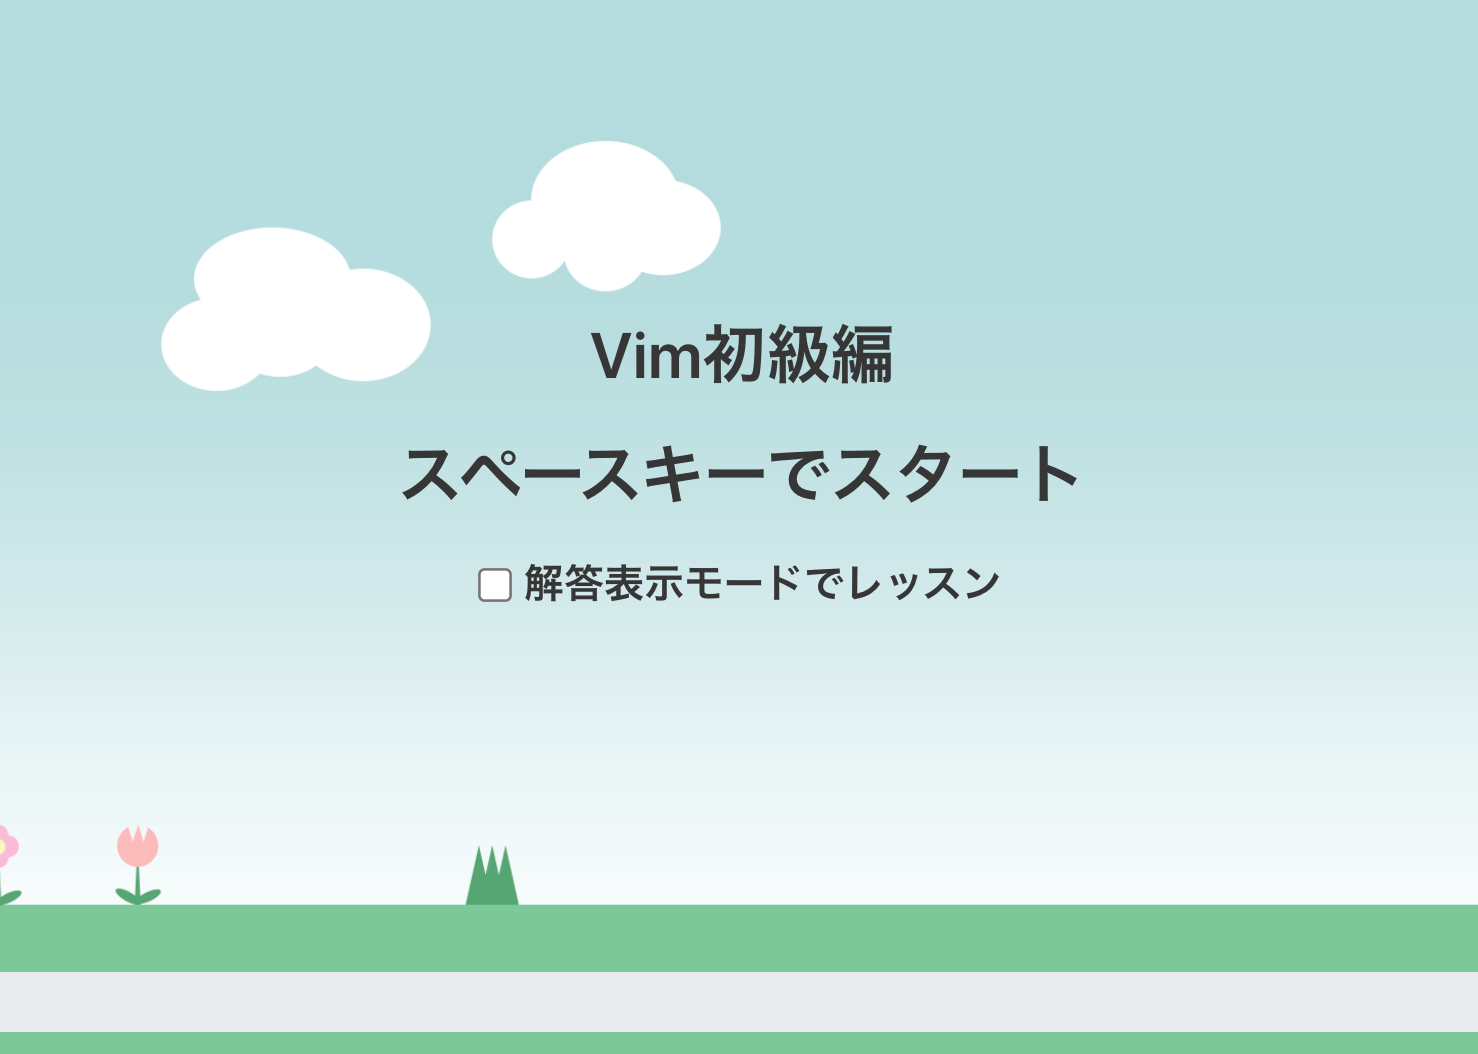
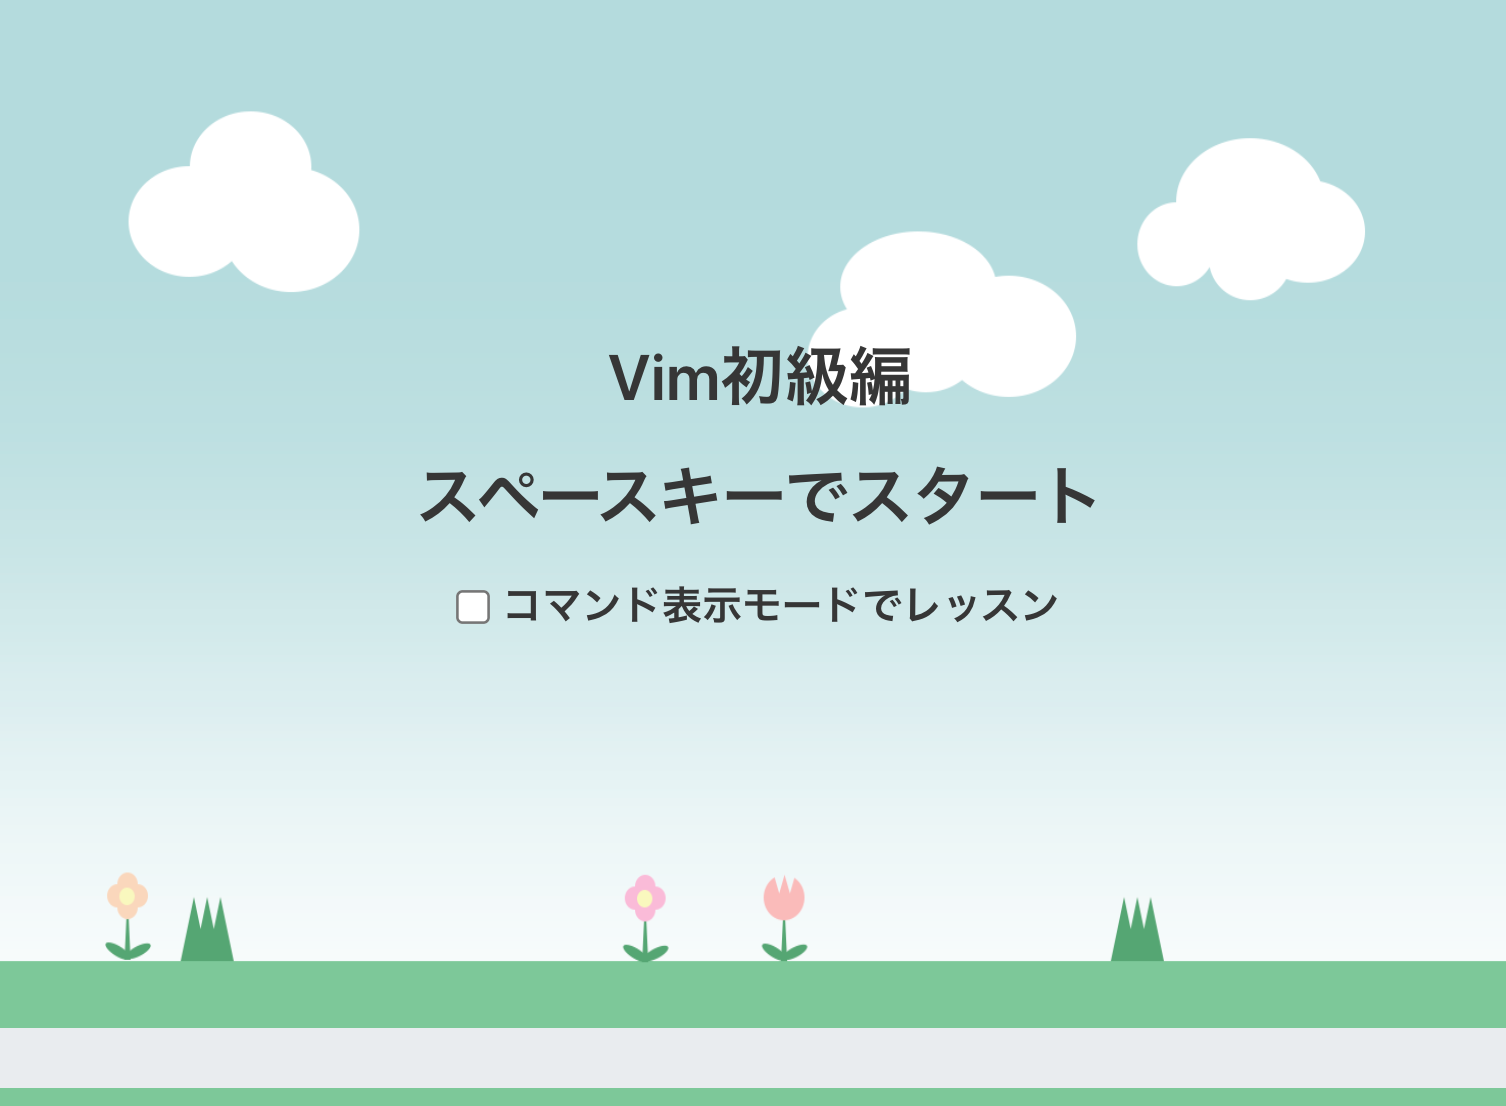
Modify: 細かい文言の調整

diff --git a/db/fixtures/01_lessons.rb b/db/fixtures/01_lessons.rb
@@ -1,8 +1,8 @@
 Lesson.seed(:id,
-  {id: 1, name: '初級編', category: 'Vim', description: 'Vim初級編は移動やインサートなど基本的なコマンドを行います。解答に自信が無い方は、先にコマンド一覧を参照してからレッスンを行ってみてください。びむ太と穏やかにレッスンを行いましょう。', url: 'vim-01'},
-  {id: 2, name: '中級編', category: 'Vim', description: 'Vim中級編はテキストオブジェクトや検索など知っておくべきなコマンドを行います。解答に自信が無い方は、先にコマンド一覧を参照してからレッスンを行ってみてください。びむ太を火山から救い出してください。', url: 'vim-02'},
-  {id: 3, name: '上級編', category: 'Vim', description: 'Vim上級編を知っていたらVimマスター間違い無し！解答に自信が無い方は、先にコマンド一覧を参照してからレッスンを行ってみてください。宇宙の無酸素でびむ太は倒れかけています。一刻も早く解答してびむ太を救い出しましょう。', url: 'vim-03'},
-  {id: 4, name: '初級編', category: 'Option', description: 'Vimmer診断初級編でVimmer力を測ろう！', url: 'vimmer-01'},
-  {id: 5, name: '中級編', category: 'Option', description: '近日リリース予定!!', url: 'vimmer-02'},
-  {id: 6, name: '上級編', category: 'Option', description: '近日リリース予定!!', url: 'vimmer-03'}
+  {id: 1, name: '初級編', category: 'Vim', description: 'Vim初級編は移動やインサートなどVimの基本的なコマンドが出題されます。コマンド一覧やコマンド表示モードを使用して、まずはVimに慣れていきましょう！初級編をマスターすれば、Vimmerへの大きな一歩です！', url: 'vim-01'},
+  {id: 2, name: '中級編', category: 'Vim', description: 'Vim中級編はテキストオブジェクトや検索などのコマンドが出題されます。初級編と同様、コマンド一覧やコマンド表示モードが使用可能です。中級編までマスターすれば、Vimでの操作が楽しくなってくるはずです！', url: 'vim-02'},
+  {id: 3, name: '上級編', category: 'Vim', description: 'Vim上級編を知っていたらVimマスター間違い無し！これまでの問題よりも大幅に難易度が上がります。上級編もコマンド一覧やコマンド表示モードを使用することができます。上級編までマスターすれば、立派なVimmerの仲間入りです！', url: 'vim-03'},
+  {id: 4, name: '初級編', category: 'Option', description: 'Vimmer診断初級編は、上下左右の基本的なコマンドを使用して、迷路を突破します。Vim初心者の方からVimmerまで幅広く遊べる内容です。Vimmer診断で、自分のVimmer力を測ってみましょう！', url: 'vimmer-01'},
+  {id: 5, name: '中級編', category: 'Option', description: '近日リリース予定！', url: 'vimmer-02'},
+  {id: 6, name: '上級編', category: 'Option', description: '近日リリース予定！', url: 'vimmer-03'}
 )
